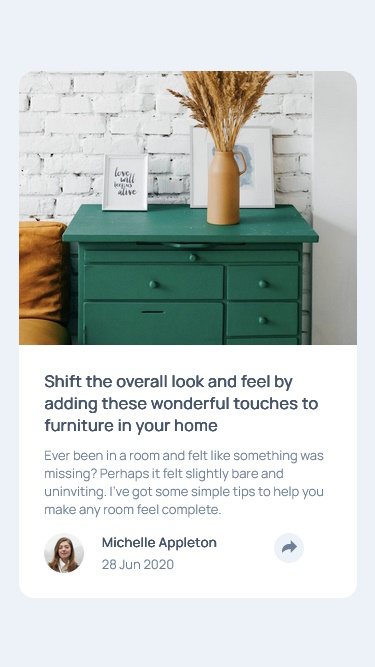
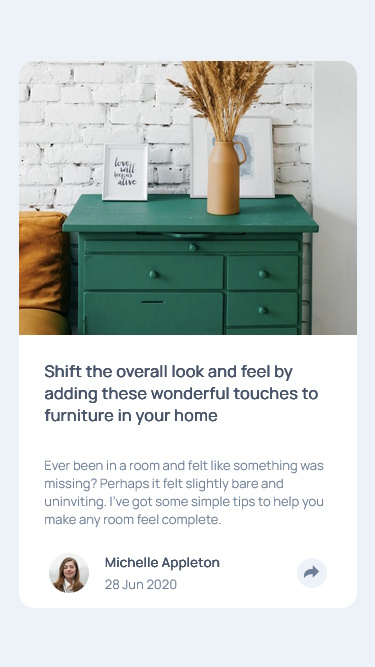
corrections + snackbar (mobile)

diff --git a/styles.css b/styles.css
@@ -50,10 +50,11 @@ body {
     border-radius: var(--border-radius) 0 0 var(--border-radius);
     object-fit: cover;
     object-position: left;
+    position: relative;
 }
 
 .content {
-    padding: 25px;
+    padding: 15px;
     width: 60%;
 }
 .content > h1 {
@@ -61,6 +62,11 @@ body {
     font-size: medium;
     font-weight: var(--font-weight-700);
     margin-bottom: 10px;
+}
+
+h1,
+.content-description {
+    padding: 10px;
 }
 
 .content-description {
@@ -73,6 +79,7 @@ body {
     display: grid;
     grid-template-columns: 1fr 3fr 1fr;
     grid-template-rows: 1fr;
+    margin: 0 15px;
 }
 
 .avatar {
@@ -105,6 +112,8 @@ button {
     border-radius: 50%;
     width: 30px;
     height: 30px;
+    position: relative;
+    z-index: 1;
 }
 
 button:hover {
@@ -112,7 +121,8 @@ button:hover {
     cursor: pointer;
 }
 
-.share {
+.share,
+.action {
     object-fit: scale-down;
     object-position: center;
 }
@@ -131,8 +141,8 @@ button:hover {
     /* Position the tooltip */
     position: absolute;
     z-index: 1;
-    bottom: 113%;
-    left: 50%;
+    bottom: 40px;
+    left: 495%;
     margin-left: -100px;
 }
 
@@ -150,7 +160,7 @@ button:hover {
 }
 
 .hidden {
-    display: none;
+    display: none !important;
 }
 
 .tooltip .tooltiptext::after {
@@ -179,20 +189,54 @@ button:hover {
     .content {
         width: 100%;
     }
-    .tooltip .tooltiptext {
-        border-top-left-radius: 0;
-        border-top-right-radius: 0;
-        
-        /* Position the tooltip */
-        position: absolute;
-        z-index: 1;
+    button:hover {
+        background-color: var(--grayish-blue);
+    }
+    .snackbar {
+        position: fixed;
+        bottom: 0;
+        left: 0;
+        right: 0;
+        margin: auto;
         height: 70px;
-        width: 250px; /*337*/
-        bottom: -65%;
-        left: 50%;
-        margin-left: -283px;
+        background-color: var(--very-dark-grayish-blue);
+        color: var(--grayish-blue);
+        border-bottom-left-radius: var(--border-radius);
+        border-bottom-right-radius: var(--border-radius);
+        text-align: center;
+        display: flex;
+        align-items: center;
+        width: min(100%, 400px);
+        margin-left: auto;
+        cursor: pointer;
+        z-index: 0;
+    }
+    .snackbar-content { 
+        display: flex;
+        flex-direction: row;
+        justify-content: space-evenly;
+        gap: 10px;
+        width: 70%;
+        padding: 16px;
+    }
+    .share-text {
+        letter-spacing: 2.5px;
     }
     .tooltip .tooltiptext::after {
         display: none;
+    }
+}
+
+/* TABLET */
+@media (min-width: 768px) {
+    .tooltip .tooltiptext {
+        left: 475%;
+    }
+}
+
+/* LAPTOP */
+@media (min-width: 1024px) {
+    .tooltip .tooltiptext {
+        left: 490%;
     }
 }

diff --git a/index.html b/index.html
@@ -10,7 +10,7 @@
 </head>
 <body>
 <main>
-  <div class="article-container">
+  <div class="article-container" id="article-container">
     <div class="image">
       <img 
       src="./images/drawers.jpg" 
@@ -31,23 +31,32 @@
           alt="Michelle Appleton">
         <span class="author-name">Michelle Appleton</span>
         <span class="author-date">28 Jun 2020</span>
-        <div class="tooltip">        
-        <button id="share-button">      
+        <button class="action" id="share-button">      
           <img 
             class="share"
             src="./images/icon-share.svg" 
             alt="Share">            
         </button>
+        <!--TOOLTIP-->
+        <div class="tooltip">                
         <div class="tooltiptext hidden" id="tooltiptext">
           <span>SHARE</span>
           <img src="./images/icon-facebook.svg" alt="Share on Facebook">
           <img src="./images/icon-twitter.svg" alt="Share on Twitter">
           <img src="./images/icon-pinterest.svg" alt="Share on Pinterest">
+        </div>        
+        <!--SNACKBAR-->
+        <div class="snackbar hidden" id="snackbar-div">
+          <span class="snackbar-content">
+            <span class="share-text">SHARE</span>
+          <img src="./images/icon-facebook.svg" alt="Share on Facebook">
+          <img src="./images/icon-twitter.svg" alt="Share on Twitter">
+          <img src="./images/icon-pinterest.svg" alt="Share on Pinterest">
+          </span>          
         </div>
         </div>
       </div>      
     </div>  
-  </div>
   </div>
 <script src="script.js"></script>
 </main>

diff --git a/script.js b/script.js
@@ -1,6 +1,17 @@
 const shareButton = document.getElementById('share-button');
 const tooltip = document.getElementById('tooltiptext');
+const snackbar = document.getElementById('snackbar-div');
+const articleContainer = document.getElementById('article-container');
 
 shareButton.addEventListener('click', () => {
-    tooltip.classList.toggle('hidden');
-})
+    // check the flex-direction of the article container
+    const style = window.getComputedStyle(articleContainer);
+    const flexDirection = style.getPropertyValue('flex-direction');
+
+    if(flexDirection === "column") // column equals mobile
+    {
+        snackbar.classList.toggle('hidden');
+    } else {
+        tooltip.classList.toggle('hidden');
+    }
+});

diff --git a/README.md b/README.md
@@ -30,6 +30,8 @@ Users should be able to:
 
 ![](./screenshot_mobile.jpg)
 
+![](./screenshot_mobile_active.jpg)
+
 ### Links
 
 - [Solution](https://github.com/theGamingKitten/article-preview-component-master)
@@ -63,6 +65,7 @@ Another approach to center the container in both directions, because the other s
 
 - [Complete Guide to Grid](https://css-tricks.com/snippets/css/complete-guide-grid/) - very useful site about css grids, with which I'm still struggeling
 - [w3schools](https://www.w3schools.com/css/css_tooltip.asp/) - used w2schools to implement the tooltip
+- [baby_wolf_codes@instagram](https://www.instagram.com/p/C2eDvMOv-dT/?img_index=1) - for implementing the snackbar
 
 ## Author
 
